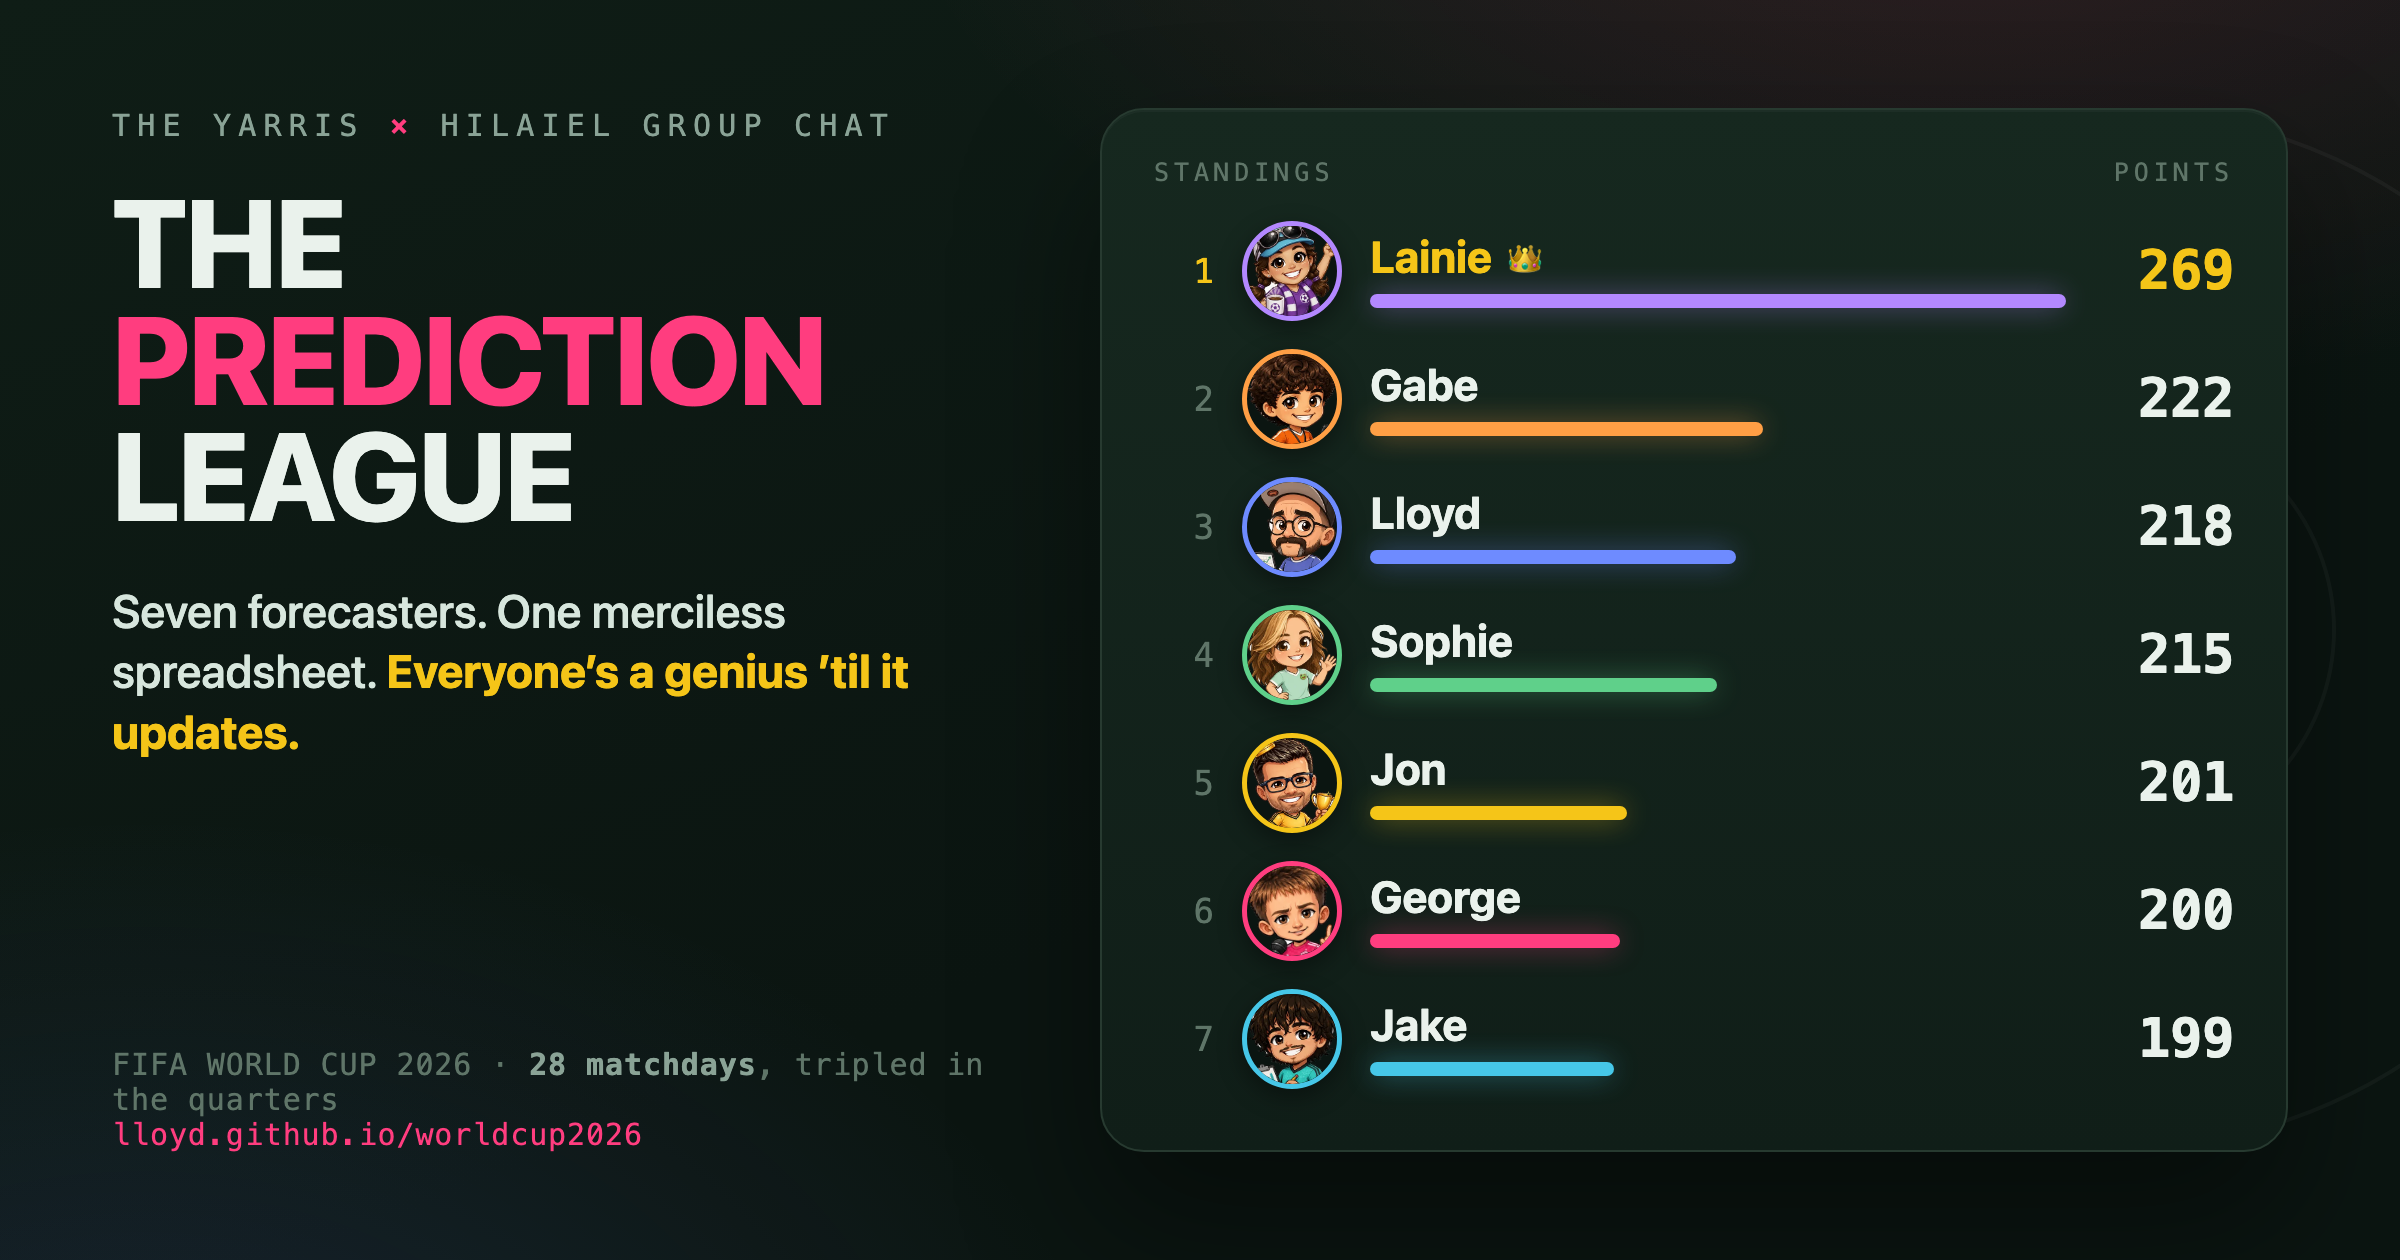
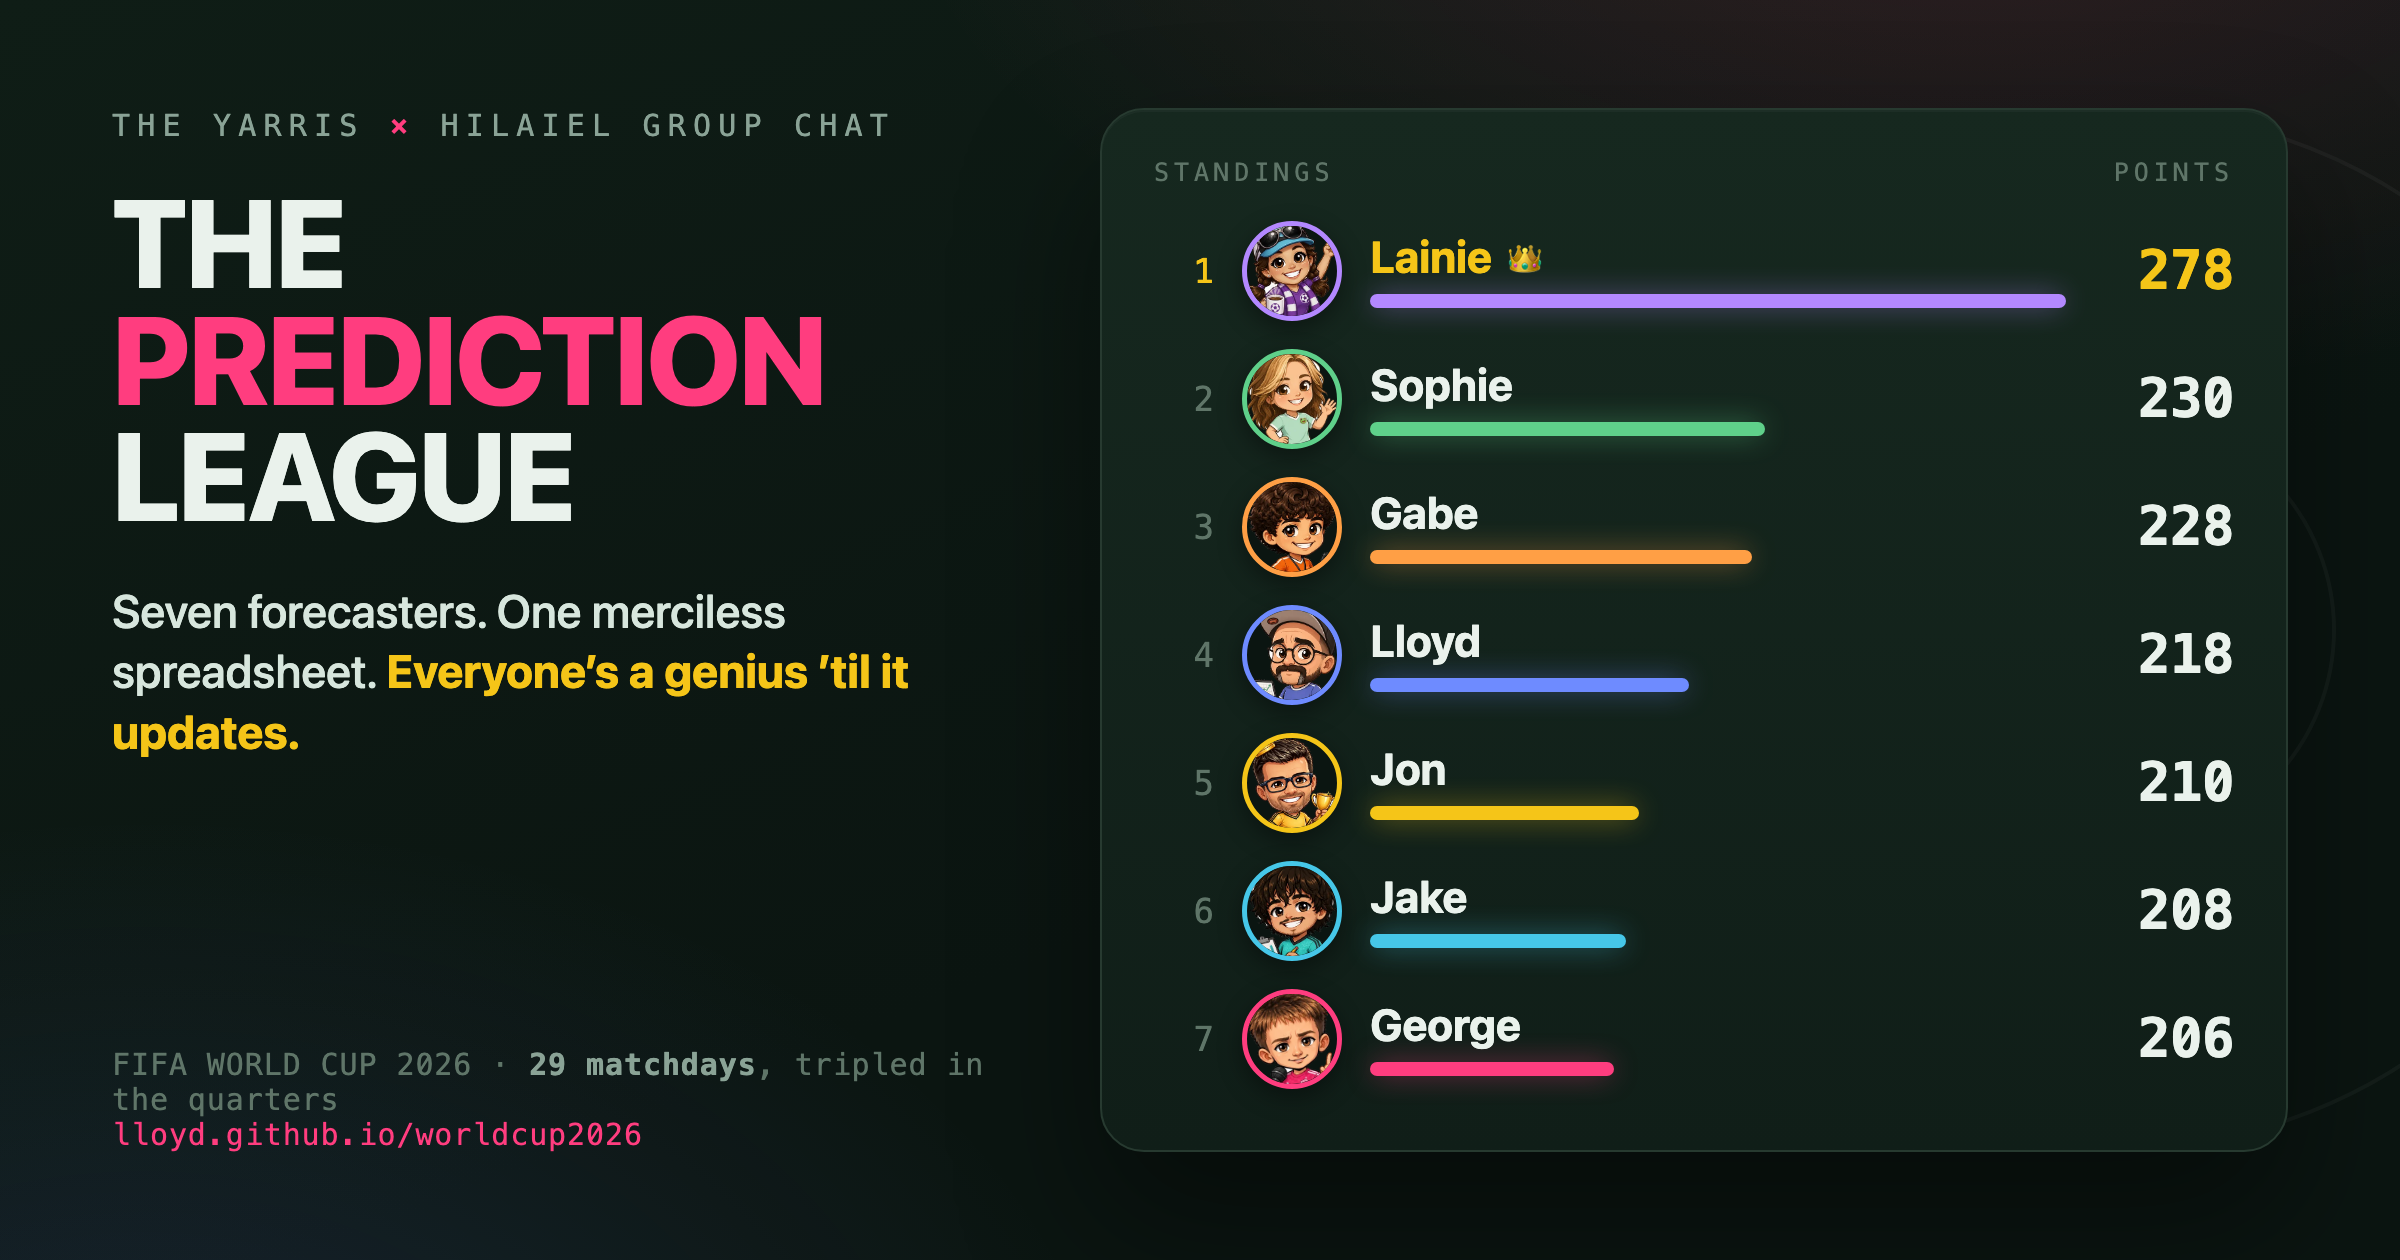
Matchday 29 (Jul 9): Sophie's +15 perfect — the Rookie rockets to 2nd
NOTE: no official screenshot; computed and independently re-scored. Quarterfinal,
one game, x3.

Result: Spain 2-1 Belgium.

The story: Sophie alone wrote the exact scoreline — a x3 PERFECT worth +15, the
biggest single-game haul the league has ever recorded. It rocketed the Rookie
from 4th to 2nd. Meanwhile Lloyd's second straight contrarian bet (he took
Belgium, "this one MUST work") blanked again; two x3 zeros in a row slid the
data nerd to 4th.

Standings: Lainie 278, Sophie 230, Gabe 228, Lloyd 218, Jon 210, Jake 208,
George 206. Sophie's perfect vaults her to 2nd past Gabe and Lloyd; Gabe to 3rd,
Lloyd to 4th; Jake edges past George at the bottom. Lainie's lead grows to 48.
Still 4 lead changes (Lainie leads).

Deltas (x3): Sophie 15 (perfect), Lainie/Jon/Jake 9, Gabe/George 6, Lloyd 0.

Nailed It: added Sophie's Spain 2-1 ("The Rookie's x3 perfect", +15) at the top
of the board. Refreshed fp cards, scoreboard (Sophie to 2nd), narrative, chat
(Lloyd's doomed double-contrarian hype), counts (29 matchdays, 98 games, 686
predictions, Jun 11-Jul 9), and the social card (new order + ?v=29).

diff --git a/index.html b/index.html
@@ -9,18 +9,18 @@
   <meta property="og:url" content="https://lloyd.github.io/worldcup2026/">
   <meta property="og:site_name" content="The Prediction League">
   <meta property="og:title" content="The Prediction League — World Cup 2026">
-  <meta property="og:description" content="Seven family forecasters, one merciless spreadsheet, 28 matchdays of confidently-wrong scorelines. Everyone’s a genius ’til the standings update.">
-  <meta property="og:image" content="https://lloyd.github.io/worldcup2026/assets/og-card.png?v=28">
-  <meta property="og:image:secure_url" content="https://lloyd.github.io/worldcup2026/assets/og-card.png?v=28">
+  <meta property="og:description" content="Seven family forecasters, one merciless spreadsheet, 29 matchdays of confidently-wrong scorelines. Everyone’s a genius ’til the standings update.">
+  <meta property="og:image" content="https://lloyd.github.io/worldcup2026/assets/og-card.png?v=29">
+  <meta property="og:image:secure_url" content="https://lloyd.github.io/worldcup2026/assets/og-card.png?v=29">
   <meta property="og:image:type" content="image/png">
   <meta property="og:image:width" content="2400">
   <meta property="og:image:height" content="1260">
-  <meta property="og:image:alt" content="The Prediction League standings — Lainie leads at 269, chased by Gabe, Lloyd and a bunched pack, each with a chibi avatar.">
+  <meta property="og:image:alt" content="The Prediction League standings — Lainie leads at 278, chased by Sophie, Gabe and a bunched pack, each with a chibi avatar.">
   <meta name="twitter:card" content="summary_large_image">
   <meta name="twitter:title" content="The Prediction League — World Cup 2026">
   <meta name="twitter:description" content="Seven family forecasters, one merciless spreadsheet. Everyone’s a genius ’til the standings update.">
-  <meta name="twitter:image" content="https://lloyd.github.io/worldcup2026/assets/og-card.png?v=28">
-  <meta name="twitter:image:alt" content="Live World Cup 2026 family prediction standings, Lainie leading at 269.">
+  <meta name="twitter:image" content="https://lloyd.github.io/worldcup2026/assets/og-card.png?v=29">
+  <meta name="twitter:image:alt" content="Live World Cup 2026 family prediction standings, Lainie leading at 278.">
   <title>World Cup 2026 — The Yarris–Hilaiel Prediction League</title>
   <style>
     /* minimal reset (standalone host) */
@@ -276,14 +276,14 @@
     <div class="floods"></div>
     <p class="eyebrow">The Yarris &times; Hilaiel group chat &nbsp;·&nbsp; <b>FIFA World Cup 2026</b></p>
     <h1>The Prediction<br>League
-      <span class="small">Seven people. Twenty-eight matchdays. Ninety-seven games called by text, scored <b>2&nbsp;/&nbsp;3&nbsp;/&nbsp;5</b> in a spreadsheet that never sleeps &mdash; doubled in the knockouts, and now <b>tripled</b> in the quarters. This is the season so far &mdash; for the data nerds among us.</span>
+      <span class="small">Seven people. Twenty-nine matchdays. Ninety-eight games called by text, scored <b>2&nbsp;/&nbsp;3&nbsp;/&nbsp;5</b> in a spreadsheet that never sleeps &mdash; doubled in the knockouts, and now <b>tripled</b> in the quarters. This is the season so far &mdash; for the data nerds among us.</span>
     </h1>
 
     <div class="kicker">
-      <span><b class="num">97</b> games predicted</span><span class="dot">●</span>
+      <span><b class="num">98</b> games predicted</span><span class="dot">●</span>
       <span><b class="num">7</b> rival forecasters</span><span class="dot">●</span>
       <span><b class="num">4</b> lead changes that mattered</span><span class="dot">●</span>
-      <span>Jun 11&ndash;Jul 8, 2026</span>
+      <span>Jun 11&ndash;Jul 9, 2026</span>
     </div>
 
     <div class="scoreboard" id="scoreboard"></div>
@@ -294,7 +294,7 @@
     <div class="sec-head rv">
       <p class="eyebrow">01 — The title race</p>
       <h2>George, Jon, Lainie, Gabe —<br>and now Lainie again.</h2>
-      <p>Every line is one forecaster&rsquo;s running point total. George led from the opening whistle, but the first two weeks were a knife-fight &mdash; <b>four lead changes</b> in eleven days: Jon&rsquo;s <span class="num">+11</span> (MD6), Lainie&rsquo;s record <span class="num">+15</span> (MD12), Gabe&rsquo;s record <span class="num">+17</span> (MD14), and Lainie&rsquo;s answer on <b>MD16</b> &mdash; which she never gave back. When the knockouts <b>doubled the points</b>, she turned that lead into a rout: a record <b>+22</b> on the Netherlands&ndash;Morocco shootout, then a blind, no-research <b>+24</b> on MD23, opening the gap as wide as <span class="num">45</span>. It sits at <b>47</b> today, Lainie clear on <span class="num">269</span>. Behind her the podium never settles: Lloyd&rsquo;s perfect England&nbsp;3&ndash;2 took him to 2nd, Jon&rsquo;s lone Switzerland call fired the Closer from last to 5th &mdash; then the <b>×3 quarterfinals</b> landed, where a single call swings nine points, and Gabe&rsquo;s France 2&ndash;1 leapt him to <b>2nd</b> while Lloyd&rsquo;s contrarian Morocco bet cost him the spot at triple stakes. The bottom three still sit inside <b>two points</b>. A runaway leader &mdash; over a field that will not stop reshuffling behind her.</p>
+      <p>Every line is one forecaster&rsquo;s running point total. George led from the opening whistle, but the first two weeks were a knife-fight &mdash; <b>four lead changes</b> in eleven days: Jon&rsquo;s <span class="num">+11</span> (MD6), Lainie&rsquo;s record <span class="num">+15</span> (MD12), Gabe&rsquo;s record <span class="num">+17</span> (MD14), and Lainie&rsquo;s answer on <b>MD16</b> &mdash; which she never gave back. When the knockouts <b>doubled the points</b>, she turned that lead into a rout: a record <b>+22</b> on the Netherlands&ndash;Morocco shootout, then a blind, no-research <b>+24</b> on MD23, opening the gap as wide as <span class="num">45</span>. It sits at <b>48</b> today, Lainie clear on <span class="num">278</span>. Behind her the podium never settles: Lloyd&rsquo;s perfect England&nbsp;3&ndash;2 took him to 2nd, Jon&rsquo;s lone Switzerland call fired the Closer from last to 5th &mdash; then the <b>×3 quarterfinals</b> landed, where a single call swings big. Gabe&rsquo;s France 2&ndash;1 leapt him to 2nd &mdash; only for Sophie to answer with a <b>perfect Spain 2&ndash;1</b> worth <b>+15</b>, the biggest single-game haul the cup has seen, vaulting the Rookie into <b>2nd</b>. Lloyd, meanwhile, bet the upset two days running and blanked both times, sliding to 4th. A runaway leader &mdash; over a field that will not stop reshuffling behind her.</p>
     </div>
     <div class="panel rv">
       <div class="chart-scroll"><div id="race-chart"></div></div>
@@ -433,7 +433,7 @@
   <footer>
     <div class="rv">
       <div style="font-family:var(--mono);font-size:12px;letter-spacing:.2em;text-transform:uppercase;color:var(--accent);margin-bottom:10px">Full time — for now</div>
-      Built from the group chat&rsquo;s own record: <span class="num">28</span> matchdays, <span class="num">97</span> games, <span class="num">679</span> predictions, and one spreadsheet kept by Jake (independently audited &mdash; reconciles to the family&rsquo;s official totals, to the point). The quarters are here, and the points now <span class="num">triple</span>.
+      Built from the group chat&rsquo;s own record: <span class="num">29</span> matchdays, <span class="num">98</span> games, <span class="num">686</span> predictions, and one spreadsheet kept by Jake (independently audited &mdash; reconciles to the family&rsquo;s official totals, to the point). The quarters are here, and the points now <span class="num">triple</span>.
       Standings are the family&rsquo;s official totals; each day&rsquo;s points reconcile exactly to them. The cup rolls on.
       <div style="margin-top:14px;color:var(--muted-2)">&ldquo;The data nerds among us want more data.&rdquo; &mdash; Lloyd, having the last word.</div>
     </div>
@@ -446,38 +446,38 @@ const D = {
   color:{Jon:"#F5C518",George:"#FF3D7F",Jake:"#46C7E8",Lainie:"#B388FF",Gabe:"#FF9F45",Sophie:"#5FD08A",Lloyd:"#6E8BFF"},
   // cumulative totals, index 0..N (0 = start), one entry per matchday — charts derive N from this
   cum:{
-    Jon:[0,5,7,10,20,25,36,45,49,55,59,67,72,76,85,91,102,115,119,123,139,151,165,171,181,181,185,195,201],
-    George:[0,8,11,16,23,25,32,40,46,52,54,62,73,80,84,94,106,114,118,122,130,144,160,172,182,186,190,194,200],
-    Jake:[0,7,10,12,19,21,30,37,39,45,50,58,66,72,81,88,99,107,107,107,121,137,153,163,179,187,187,193,199],
-    Lainie:[0,3,5,10,15,15,27,32,38,47,58,63,78,88,94,101,116,132,142,164,186,198,214,238,250,250,254,260,269],
-    Gabe:[0,5,8,11,13,13,25,30,33,43,54,62,72,80,97,103,113,123,129,135,155,165,181,193,205,209,209,213,222],
-    Sophie:[0,0,2,5,12,14,22,29,31,38,48,56,66,73,81,89,102,115,119,129,151,167,177,189,199,203,203,209,215],
-    Lloyd:[0,3,5,8,12,12,21,25,30,38,47,54,62,69,78,87,101,112,122,122,138,158,178,192,200,210,214,218,218],
+    Jon:[0,5,7,10,20,25,36,45,49,55,59,67,72,76,85,91,102,115,119,123,139,151,165,171,181,181,185,195,201,210],
+    George:[0,8,11,16,23,25,32,40,46,52,54,62,73,80,84,94,106,114,118,122,130,144,160,172,182,186,190,194,200,206],
+    Jake:[0,7,10,12,19,21,30,37,39,45,50,58,66,72,81,88,99,107,107,107,121,137,153,163,179,187,187,193,199,208],
+    Lainie:[0,3,5,10,15,15,27,32,38,47,58,63,78,88,94,101,116,132,142,164,186,198,214,238,250,250,254,260,269,278],
+    Gabe:[0,5,8,11,13,13,25,30,33,43,54,62,72,80,97,103,113,123,129,135,155,165,181,193,205,209,209,213,222,228],
+    Sophie:[0,0,2,5,12,14,22,29,31,38,48,56,66,73,81,89,102,115,119,129,151,167,177,189,199,203,203,209,215,230],
+    Lloyd:[0,3,5,8,12,12,21,25,30,38,47,54,62,69,78,87,101,112,122,122,138,158,178,192,200,210,214,218,218,218],
   },
-  dayLabel:["","MD1","MD2","MD3","MD4","MD5","MD6","MD7","MD8","MD9","MD10","MD11","MD12","MD13","MD14","MD15","MD16","MD17","MD18","MD19","MD20","MD21","MD22","MD23","MD24","MD25","MD26","MD27","MD28"],
-  dayDate:["","Jun 11","Jun 12","Jun 13","Jun 14","Jun 15","Jun 16","Jun 17","Jun 18","Jun 19","Jun 20","Jun 21","Jun 22","Jun 23","Jun 24","Jun 25","Jun 26","Jun 27","Jun 28","Jun 29","Jun 30","Jul 1","Jul 2","Jul 3","Jul 4","Jul 5","Jul 6","Jul 7","Jul 8"],
+  dayLabel:["","MD1","MD2","MD3","MD4","MD5","MD6","MD7","MD8","MD9","MD10","MD11","MD12","MD13","MD14","MD15","MD16","MD17","MD18","MD19","MD20","MD21","MD22","MD23","MD24","MD25","MD26","MD27","MD28","MD29"],
+  dayDate:["","Jun 11","Jun 12","Jun 13","Jun 14","Jun 15","Jun 16","Jun 17","Jun 18","Jun 19","Jun 20","Jun 21","Jun 22","Jun 23","Jun 24","Jun 25","Jun 26","Jun 27","Jun 28","Jun 29","Jun 30","Jul 1","Jul 2","Jul 3","Jul 4","Jul 5","Jul 6","Jul 7","Jul 8","Jul 9"],
   fp:{ // n, avgGoals, drawRate, favScore, favCount, role, blurb
-    Jon:{role:"The Closer",pts:201,rank:5,avg:3.29,draw:.214,fav:"2-2",favN:5,
+    Jon:{role:"The Closer",pts:210,rank:5,avg:3.29,draw:.214,fav:"2-2",favN:5,
       quote:"I’m barely hanging on to the top flight",
-      fp:"Most goals per game (<b>3.29</b>). A tripled <b>+6</b> for backing France carries the Closer past <b>200</b> to <b>201</b> — still <b>5th</b>, atop a bottom three bunched inside two points."},
-    Lainie:{role:"The Matriarch",pts:269,rank:1,avg:2.43,draw:.143,fav:"2-1",favN:5,
+      fp:"Most goals per game (<b>3.29</b>). A tripled <b>+9</b> off Spain 3–1 (Belgium’s 1 dead-on) lifts the Closer to <b>210</b>, holding <b>5th</b> as the whole pack climbs."},
+    Lainie:{role:"The Matriarch",pts:278,rank:1,avg:2.43,draw:.143,fav:"2-1",favN:5,
       quote:"It’s just ’cause I’m french",
-      fp:"The cup’s most conservative scorer hits <b>269</b> — her France 1–0 caught Morocco’s nil for a <b>tripled +9</b> as the ×3 quarters arrived. The lead balloons to <b>47</b>. Her blind, no-research <b>+24</b> record still stands. Running away — faster now."},
-    Gabe:{role:"The Commissioner",pts:222,rank:2,avg:3.17,draw:.167,fav:"2-0",favN:4,
+      fp:"The cup’s most conservative scorer reaches <b>278</b> — her Spain 2–0 caught Spain’s exact 2 for another <b>tripled +9</b>. The lead stretches to <b>48</b>. Her blind, no-research <b>+24</b> record still stands. Running away."},
+    Gabe:{role:"The Commissioner",pts:228,rank:3,avg:3.17,draw:.167,fav:"2-0",favN:4,
       quote:"Setting up a potential double overtake tomorrow",
-      fp:"Founded the league and wrote the rules — and clocked the new stakes himself (“So it’s 3x now, right? Quarterfinals”). His France 2–1 caught France’s exact 2 for a <b>tripled +9</b>, a triple-stakes leap over Lloyd into <b>2nd</b> at <b>222</b>."},
-    George:{role:"The Frontrunner",pts:200,rank:6,avg:3.14,draw:.143,fav:"2-1",favN:4,
+      fp:"Founded the league and wrote the rules. A tripled <b>+6</b> (Spain 3–0, result only) ticks him to <b>228</b> — but Sophie’s perfect leapfrogged him, so the Commissioner slips to <b>3rd</b>, two back of the Rookie."},
+    George:{role:"The Frontrunner",pts:206,rank:7,avg:3.14,draw:.143,fav:"2-1",favN:4,
       quote:"That’s so generous that we might have to come to Portland 👀",
-      fp:"Led matchdays 1–5. A tripled <b>+6</b> for France brings up an even <b>200</b> — but he’s stuck in <b>6th</b>, the bottom three (201/200/199) separated by a point apiece. The half-Bulgarian still aiming to <b>start for Bulgaria at WC 2030</b>."},
-    Jake:{role:"The Statistician",pts:199,rank:7,avg:3.00,draw:.107,fav:"3-1",favN:6,
+      fp:"Led matchdays 1–5. His bold Spain 5–2 caught the winner for a tripled <b>+6</b> to <b>206</b> — but it drops him to <b>7th</b> as Jake edged past. The half-Bulgarian still aiming to <b>start for Bulgaria at WC 2030</b>."},
+    Jake:{role:"The Statistician",pts:208,rank:6,avg:3.00,draw:.107,fav:"3-1",favN:6,
       quote:"I’ve made a spreadsheet which updates and I’ll send rankings",
-      fp:"Keeper of the official scores. A tripled <b>+6</b> for France lifts him to <b>199</b> — a single point shy of 200 and still <b>7th</b>, the bottom three inside a two-point band. Signature <b>3-1</b> (×6)."},
-    Sophie:{role:"The Rookie",pts:215,rank:4,avg:2.78,draw:.174,fav:"1-2",favN:5,
+      fp:"Keeper of the official scores. A tripled <b>+9</b> off Spain 2–0 (Spain’s 2 exact) lifts him to <b>208</b> and back over George into <b>6th</b>. Signature <b>3-1</b> (×6)."},
+    Sophie:{role:"The Rookie",pts:230,rank:2,avg:2.78,draw:.174,fav:"1-2",favN:5,
       quote:"Figured it out! Watching Belgium v Egypt by the creek",
-      fp:"Joined late on day one — “Well in Sophie.” A tripled <b>+6</b> for France keeps her <b>4th</b> at <b>215</b>, three off the podium as the quarters raise the stakes."},
-    Lloyd:{role:"The Data Nerd",pts:218,rank:3,avg:2.57,draw:.143,fav:"2-1",favN:4,
+      fp:"Joined late on day one — “Well in Sophie.” The Rookie’s <b>first knockout perfect</b>: her exact <b>Spain 2–1</b> at ×3 was worth <b>+15</b> — the biggest single-game haul the league has seen — rocketing her from 4th to <b>2nd</b>."},
+    Lloyd:{role:"The Data Nerd",pts:218,rank:4,avg:2.57,draw:.143,fav:"2-1",favN:4,
       quote:"The data nerds among us want more data",
-      fp:"The contrarian bet finally bit: he alone took Morocco in the quarterfinal, France won <b>2–0</b>, and a <b>×3 zero</b> dropped the data nerd from 2nd to <b>3rd</b> at <b>218</b>, now four back of Gabe. “Boom. …Merde.”"},
+      fp:"The contrarian doubled down and got burned again: after Morocco he alone took <b>Belgium</b> (“this one MUST work”) — Spain won 2–1, a second straight <b>×3 zero</b>, and the data nerd stalled on <b>218</b>, sliding to <b>4th</b>."},
   },
   boldest:[
     {g:7,by:"George",d:9,m:"Brazil 6-1 Haiti",v:""},
@@ -493,6 +493,8 @@ const D = {
     {g:5,by:"Lainie",d:3,m:"Haiti 0-4 Scotland",v:""},
   ],
   nailed:[
+    {home:"Spain",hs:2,as:1,away:"Belgium",day:29,by:["Sophie"],called:1,of:7,pts:15,badge:"The Rookie’s ×3 perfect",
+     note:"The <b>biggest single-game haul the league has seen</b>: Sophie alone wrote Spain 2&ndash;1 Belgium to the goal, and at quarterfinal <b>×3</b> a perfect pays <b>15</b>. It rocketed the Rookie from 4th to <b>2nd</b> &mdash; while beside her Lloyd&rsquo;s contrarian Belgium bet (&ldquo;this one MUST work&rdquo;) went down in flames."},
     {home:"England",hs:3,as:2,away:"Mexico",day:25,by:["Lloyd"],called:1,of:7,pts:10,badge:"The Azteca perfect",
      note:"A 3&ndash;2 classic in the Azteca, and Lloyd was the <b>only</b> soul to write it to the goal &mdash; a knockout <b>perfect</b>, doubled to <b>+10</b>, that leapfrogged him into <b>2nd</b> by a single point. Jake had England 3&ndash;2 locked in too&hellip; then changed it to a shootout. &ldquo;I literally said 3-2 England and then changed it.&rdquo;"},
     {home:"Netherlands",hs:1,as:1,away:"Morocco",day:19,by:["Lainie"],called:1,of:7,pts:12,sub:"pens — exact + winner",badge:"The first pens jackpot",
@@ -648,6 +650,8 @@ const D = {
     {s:"George Hilaiel",me:false,t:"Allez le bleu allez 💙"},
     {s:"Lloyd",me:true,t:"France 1–2 Morocco. …Boom. Merde."},
     {s:"Lainie Yarris",me:false,t:"Literally the only score no one picked"},
+    {s:"Lloyd",me:true,t:"Belgium 2–1 Spain. Kevin, Jeremy, and LUKAKU — LETS GO KEVIN DEBRUYNE"},
+    {s:"Lloyd",me:true,t:"(Just hyping up my second contrarian prediction in as many days. This one MUST work)"},
   ],
 };
 
@@ -658,9 +662,9 @@ function clamp(v,a,b){return Math.max(a,Math.min(b,v));}
 
 /* ---------- hero scoreboard ---------- */
 (function(){
-  const order=[["Lainie",1],["Gabe",2],["Lloyd",3]];
-  const tag={Lainie:"Runaway #1 — 269, lead 47",Gabe:"2nd · triple-stakes leap",Lloyd:"3rd · the Morocco bet cost him"};
-  const crown={Lainie:"👑",Gabe:"",Lloyd:""};
+  const order=[["Lainie",1],["Sophie",2],["Gabe",3]];
+  const tag={Lainie:"Runaway #1 — 278, lead 48",Sophie:"2nd · the +15 perfect",Gabe:"3rd · nudged off silver"};
+  const crown={Lainie:"👑",Sophie:"",Gabe:""};
   const host=document.getElementById("scoreboard");
   order.forEach(([p,r])=>{
     const pts=D.cum[p][D.cum[p].length-1];

diff --git a/assets/og/card.html b/assets/og/card.html
@@ -66,7 +66,7 @@
     <div class="eyebrow">The Yarris <b>×</b> Hilaiel group chat</div>
     <h1>THE<br><span class="p">PREDICTION</span><br>LEAGUE</h1>
     <div class="tag">Seven forecasters. One merciless spreadsheet. <b>Everyone’s a genius ’til it updates.</b></div>
-    <div class="foot">FIFA WORLD CUP 2026 &middot; <b>28 matchdays</b>, tripled in the quarters<br><span class="u">lloyd.github.io/worldcup2026</span></div>
+    <div class="foot">FIFA WORLD CUP 2026 &middot; <b>29 matchdays</b>, tripled in the quarters<br><span class="u">lloyd.github.io/worldcup2026</span></div>
   </div>
 
   <div class="board">
@@ -77,13 +77,13 @@
 <script>
   // Keep in sync with index.html D.cum (final totals) + colors. Bar = pts / leader.
   const STAND = [
-    ["Lainie", 269, "#B388FF", true],
-    ["Gabe",   222, "#FF9F45", false],
+    ["Lainie", 278, "#B388FF", true],
+    ["Sophie", 230, "#5FD08A", false],
+    ["Gabe",   228, "#FF9F45", false],
     ["Lloyd",  218, "#6E8BFF", false],
-    ["Sophie", 215, "#5FD08A", false],
-    ["Jon",    201, "#F5C518", false],
-    ["George", 200, "#FF3D7F", false],
-    ["Jake",   199, "#46C7E8", false],
+    ["Jon",    210, "#F5C518", false],
+    ["Jake",   208, "#46C7E8", false],
+    ["George", 206, "#FF3D7F", false],
   ];
   const max = Math.max(...STAND.map(s=>s[1]));
   const min = Math.min(...STAND.map(s=>s[1]));